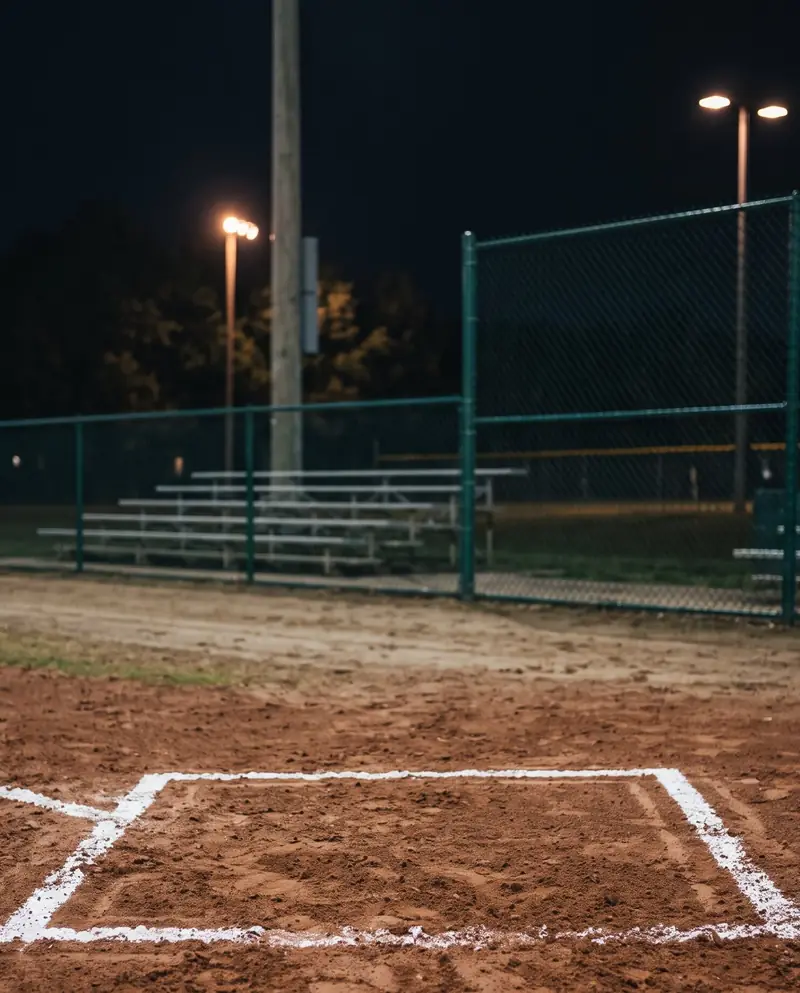
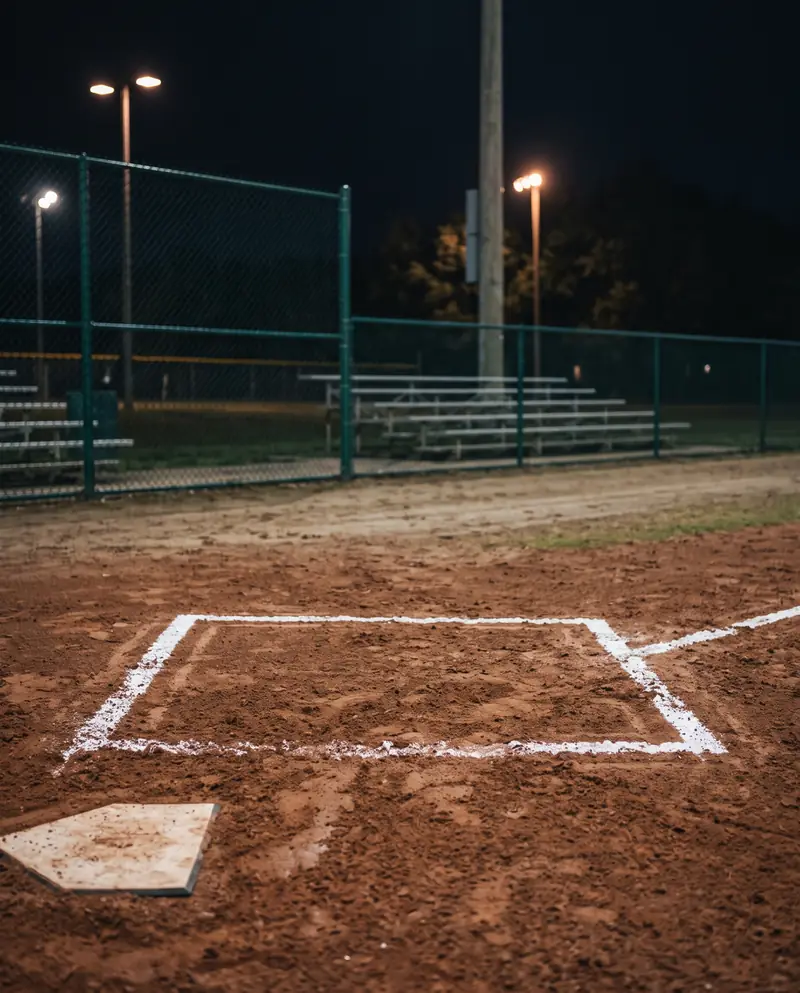
Gapper site: stand the sample-read hitter in the box facing home plate
Flip the illustrated background so home plate sits at lower left, where the
tracked hitter faces, and place the real tracked swing in the batter's box.
Tracking data and numbers are unchanged.

Claude-Session: https://claude.ai/code/session_01Ae3FCTDL5JAnKJpbTj9QAY

diff --git a/swingiq/public/site/site.css b/swingiq/public/site/site.css
@@ -219,8 +219,8 @@ h1, h2, h3, p { margin: 0; }
 .jumbo.sm { font-size: clamp(2.6rem, 2rem + 2vw, 3.6rem); color: var(--lime); }
 .read-grid { display: grid; gap: 18px; margin-top: 18px; }
 @media (min-width: 640px) { .read-grid { grid-template-columns: minmax(150px, 0.7fr) 1.3fr; align-items: start; } }
-/* The sample read plays the real tracked swing over an illustrated empty batter's box (night rec park, pitcher off
-   the left edge to match the way the tracked hitter faces). Only the background is illustrated; say so in the note. */
+/* The sample read plays the real tracked swing over an illustrated empty batter's box at a night rec park, with home
+   plate at lower left where the tracked hitter faces. Only the background is illustrated; say so in the note. */
 .swing-sm { width: 100%; aspect-ratio: 4 / 5; border-radius: 10px; border: 1px solid var(--line);
   background: linear-gradient(180deg, rgba(11, 12, 14, 0.55) 0%, rgba(11, 12, 14, 0.25) 55%, rgba(11, 12, 14, 0.45) 100%),
     url(assets/batters-box.webp) center bottom / cover no-repeat, #0d0e10; }

diff --git a/swingiq/public/site/site.js b/swingiq/public/site/site.js
@@ -130,8 +130,9 @@
 
   // Where the real tracked hitter stands on the small read canvas: pose units (0..1 of a 4:5 frame) to pixels.
   function mapper(c) {
-    // The hero shows the whole hitter with room around them; the small read canvas fills its frame.
-    var hero = c.kind === 'hero', s = c.h / (hero ? 0.8 : 0.62), floor = hero ? 0.86 : 0.94;
+    // The hero shows the whole hitter with room around them. On the small read canvas the hitter stands in the
+    // illustrated batter's box (feet on the box, home plate in front of him at lower left, the way he faces).
+    var hero = c.kind === 'hero', s = c.h / (hero ? 0.8 : 0.8), floor = hero ? 0.86 : 0.72;
     return function (p) { return [c.w / 2 + (p[0] - 0.51) * 0.8 * s, c.h * floor + (p[1] - 0.87) * s]; };
   }
 
